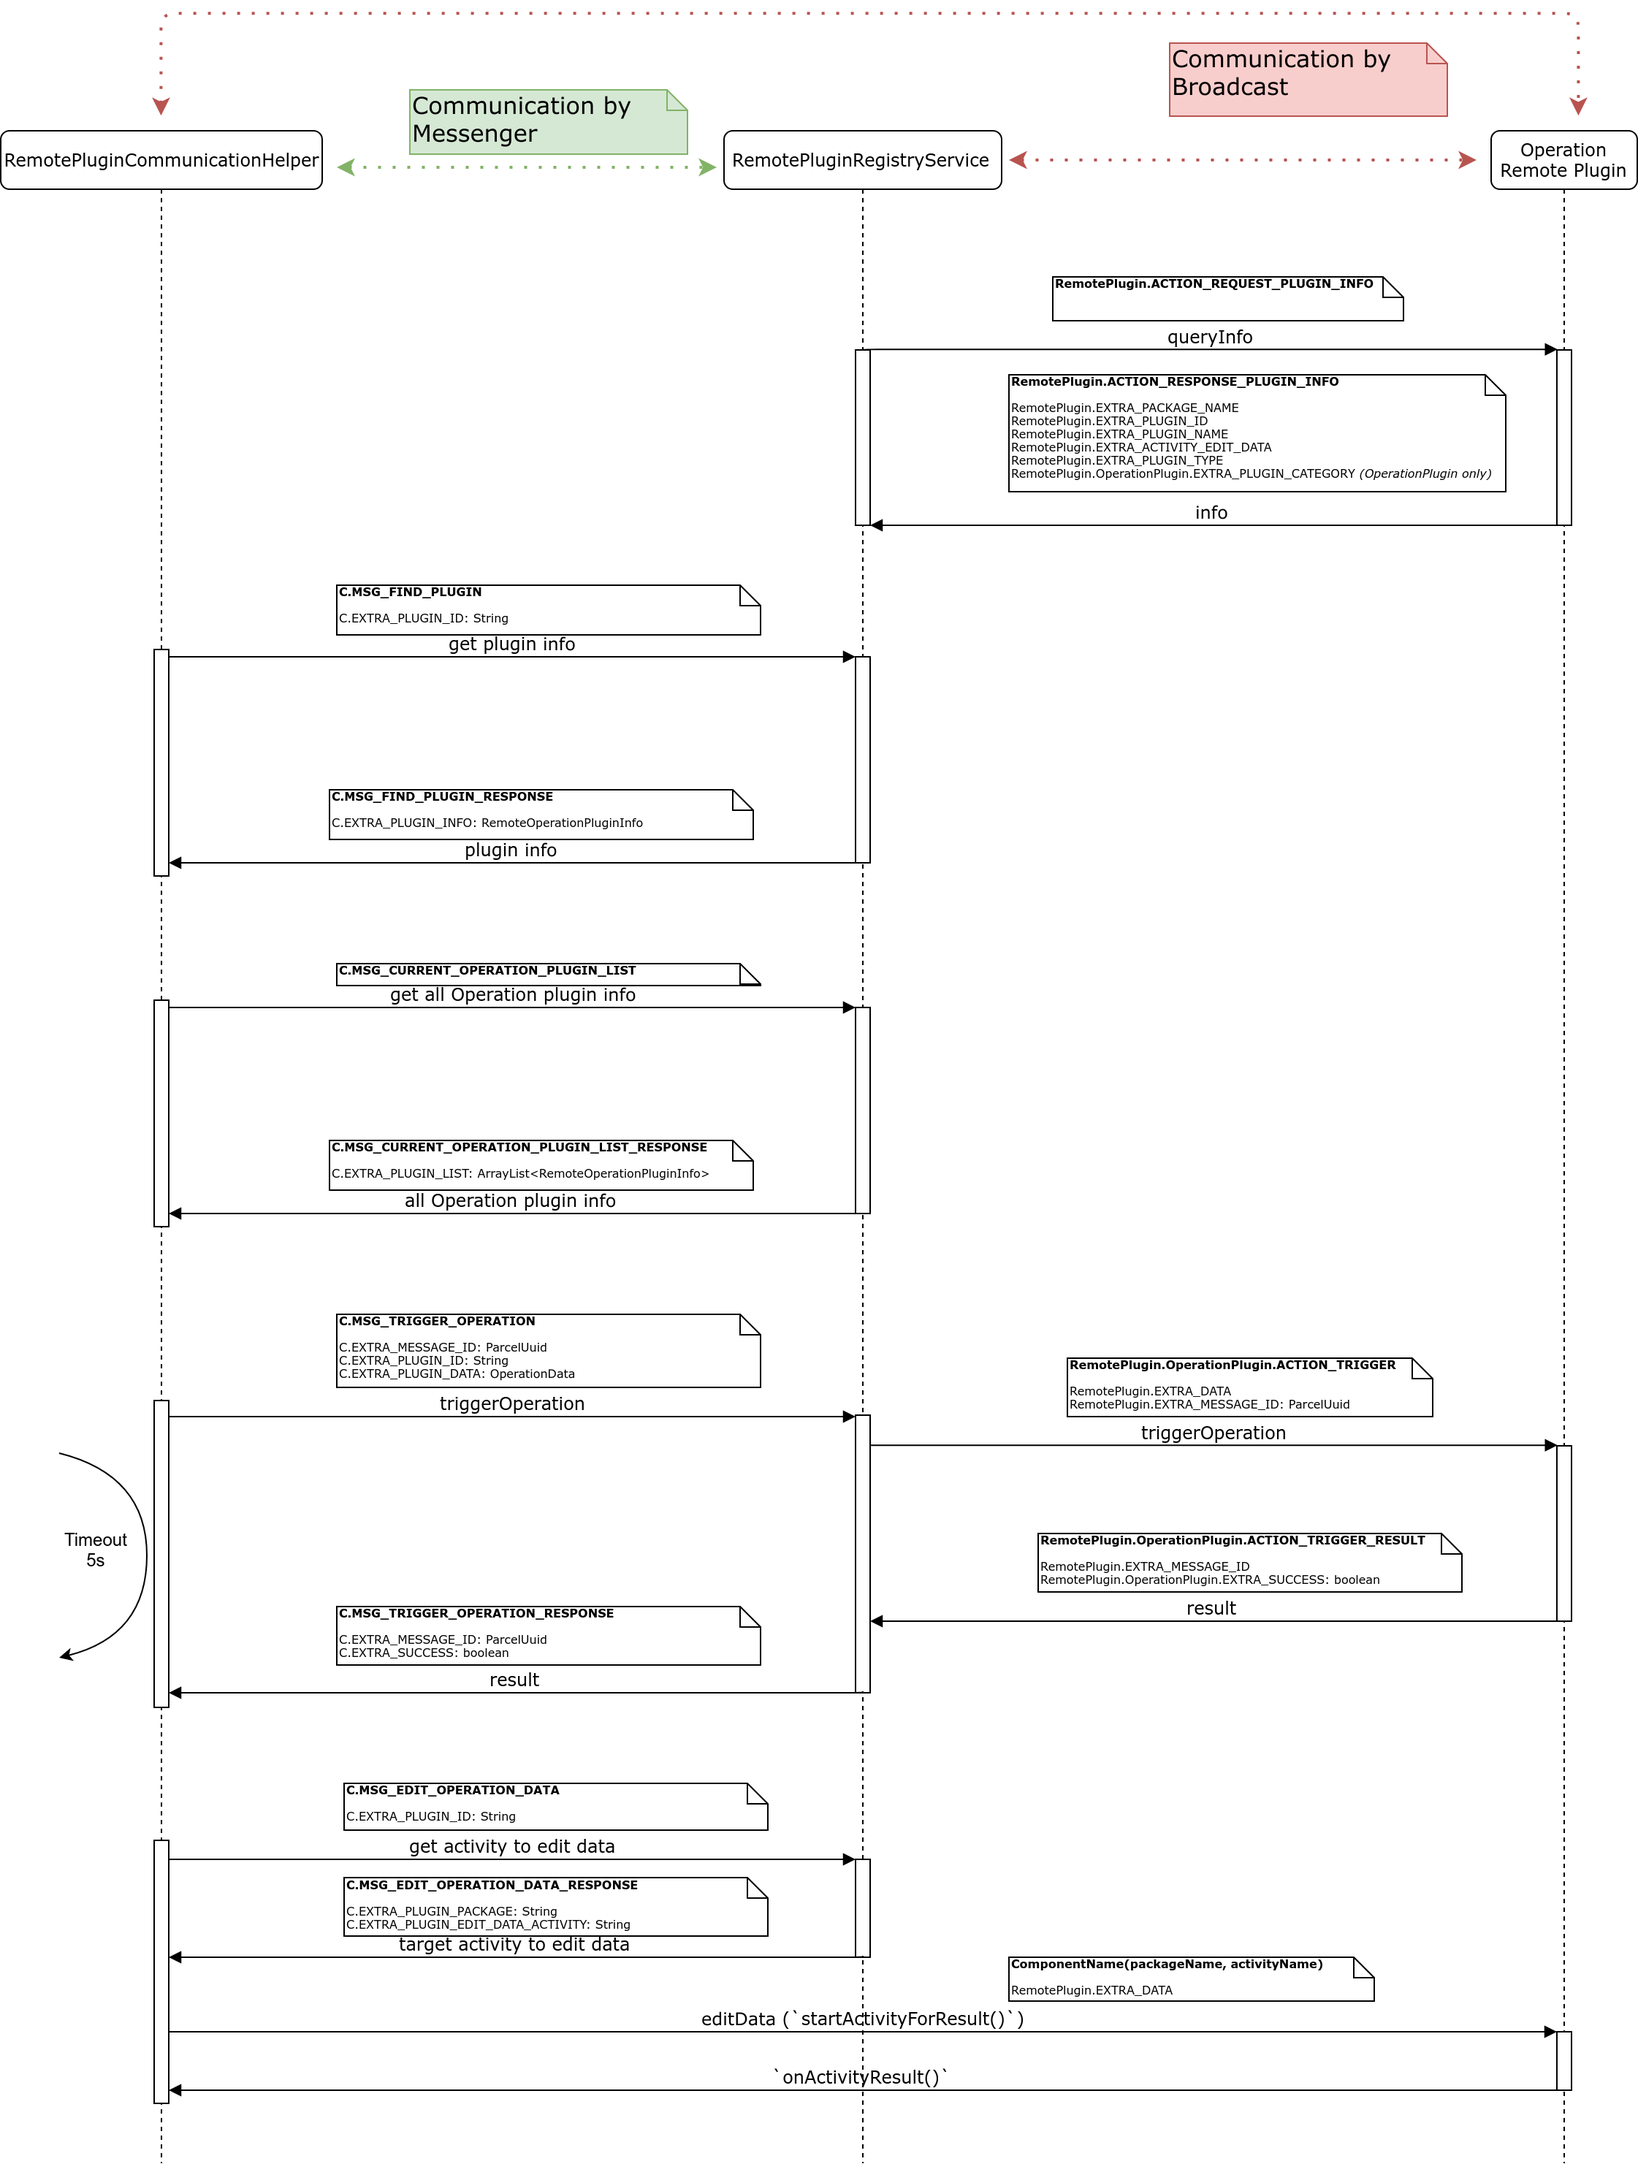
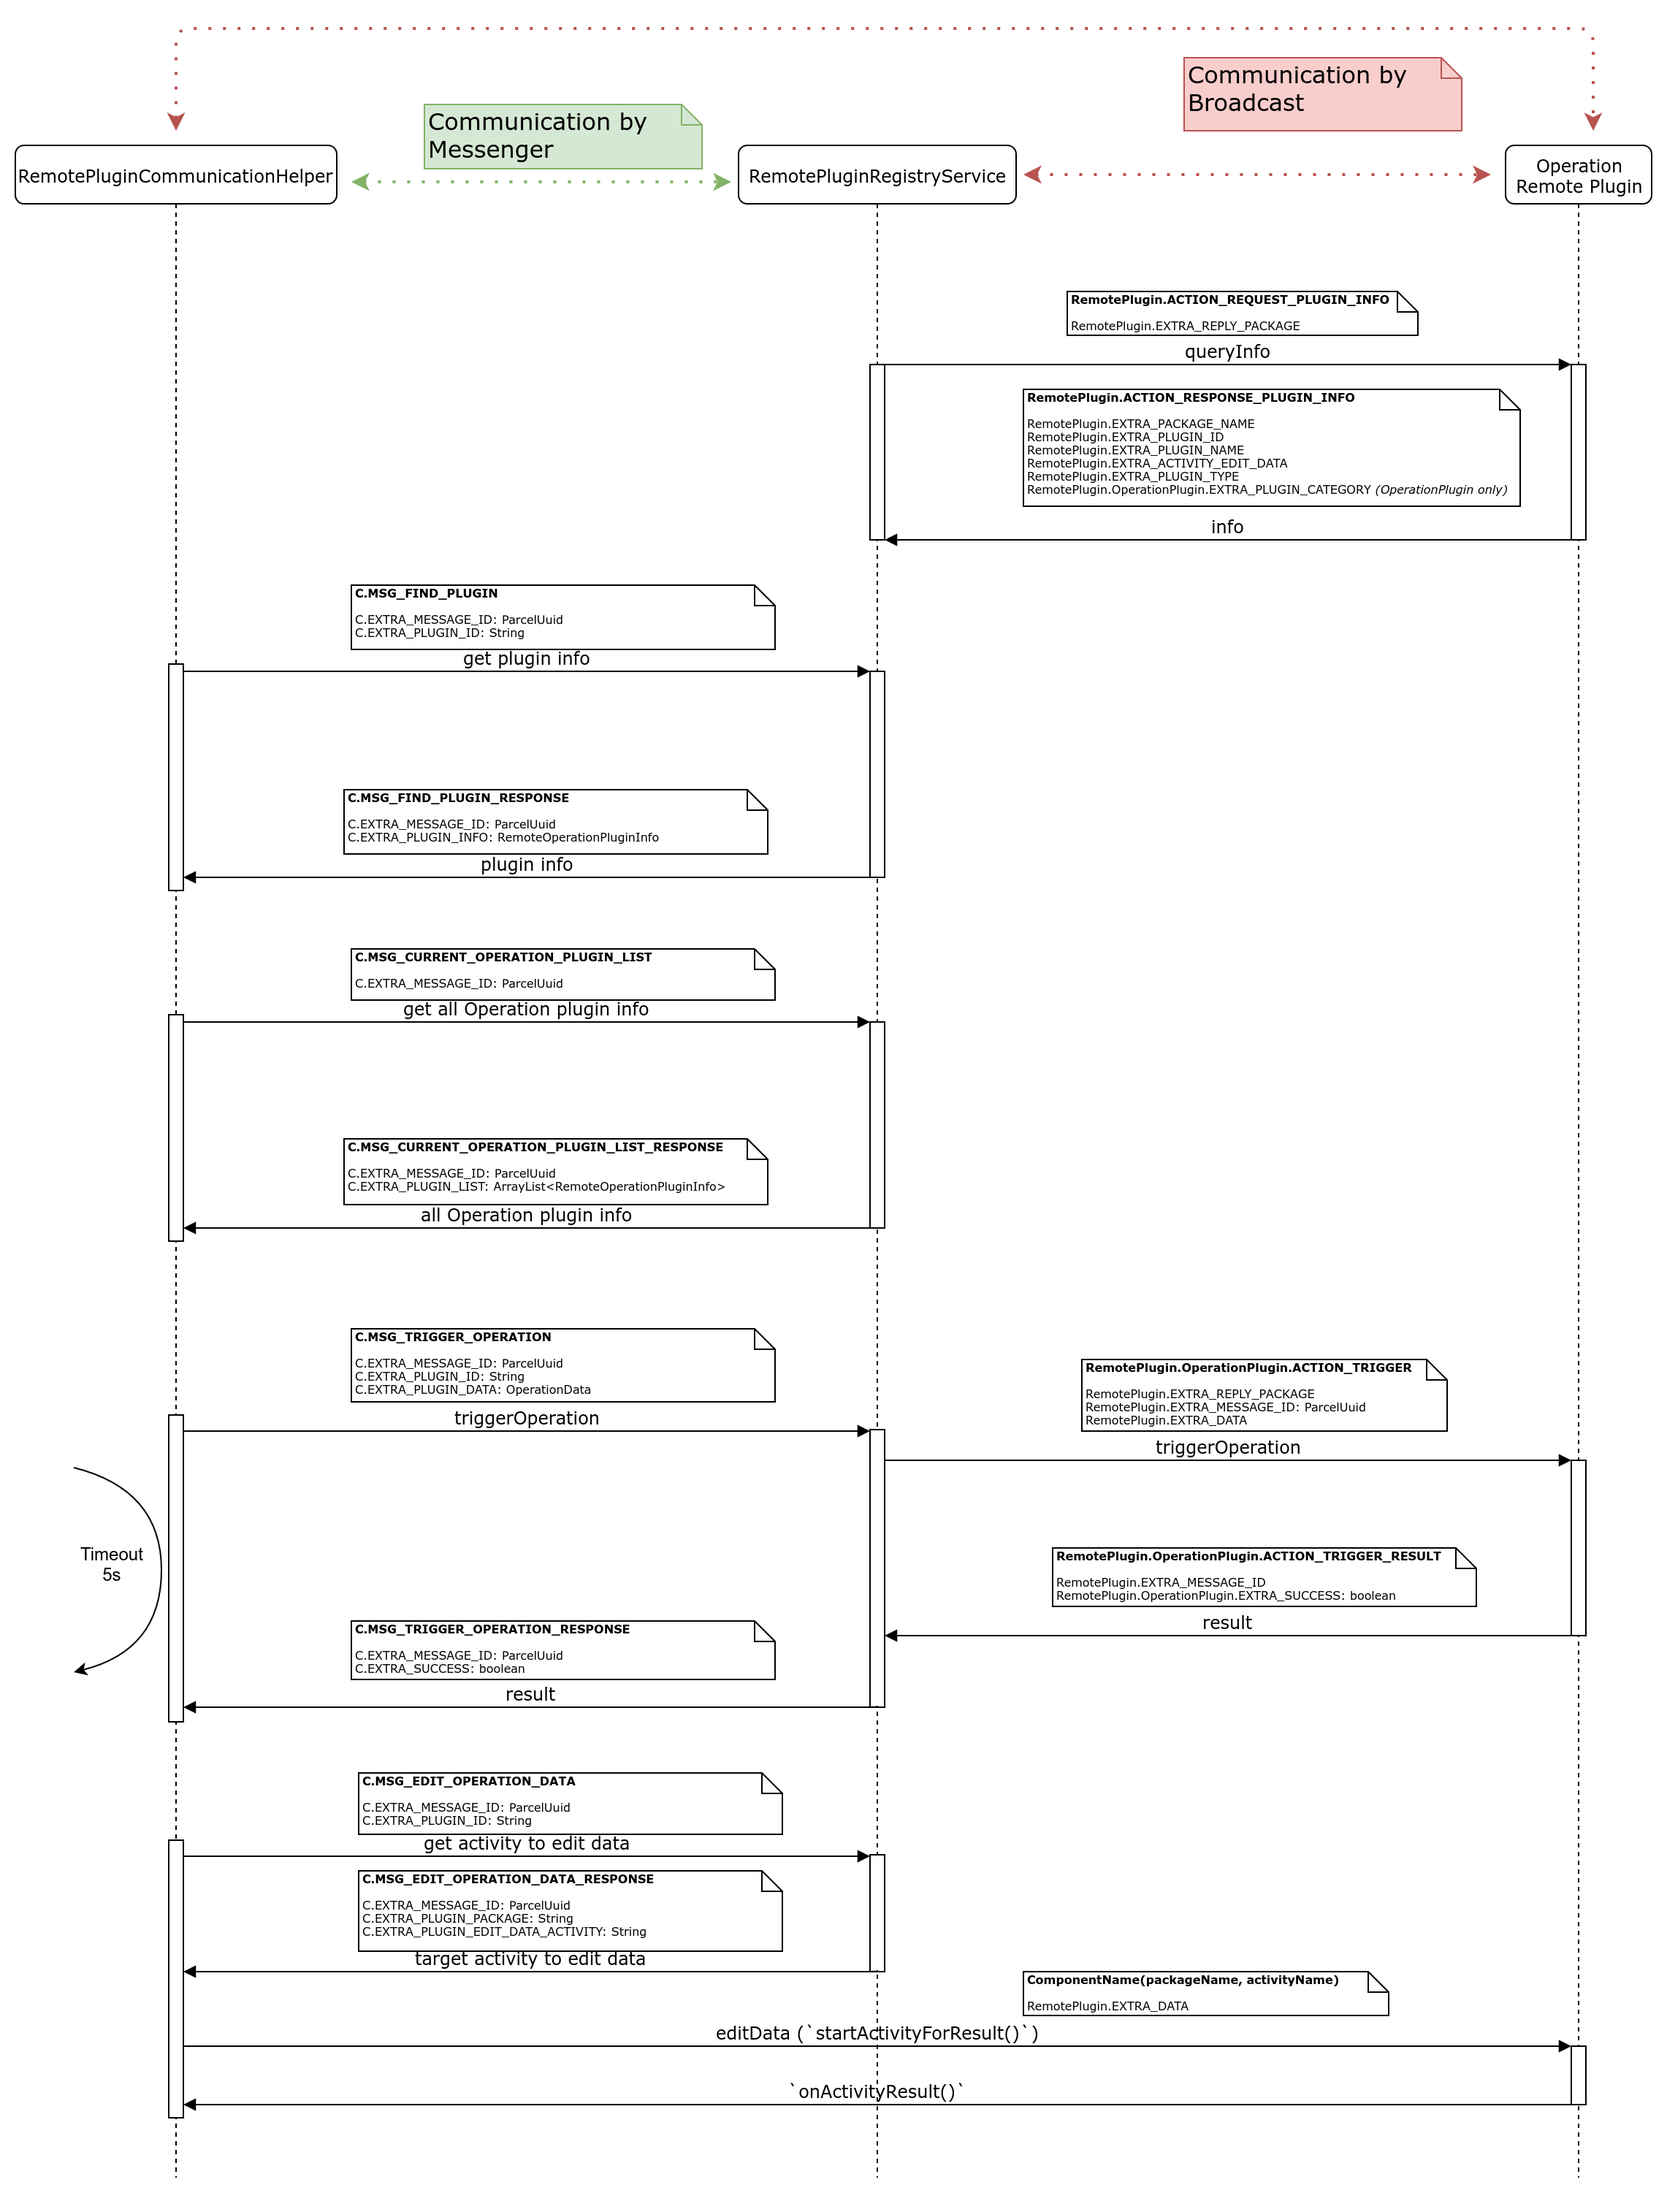
Added correct round communication with remote plugin && update diagram

diff --git a/app/src/main/java/ryey/easer/core/RemotePluginRegistryService.kt b/app/src/main/java/ryey/easer/core/RemotePluginRegistryService.kt
@@ -200,6 +200,7 @@ class RemotePluginRegistryService : Service() {
                 val pluginInfo = service.infoForId(id)!!
                 val intent = Intent(RemotePlugin.OperationPlugin.ACTION_TRIGGER)
                 intent.`package` = pluginInfo.packageName
+                intent.putExtra(RemotePlugin.EXTRA_REPLY_PACKAGE, service.packageName)
                 intent.putExtra(RemotePlugin.EXTRA_DATA, data)
                 intent.putExtra(RemotePlugin.EXTRA_MESSAGE_ID, jobId)
                 service.sendBroadcast(intent)
